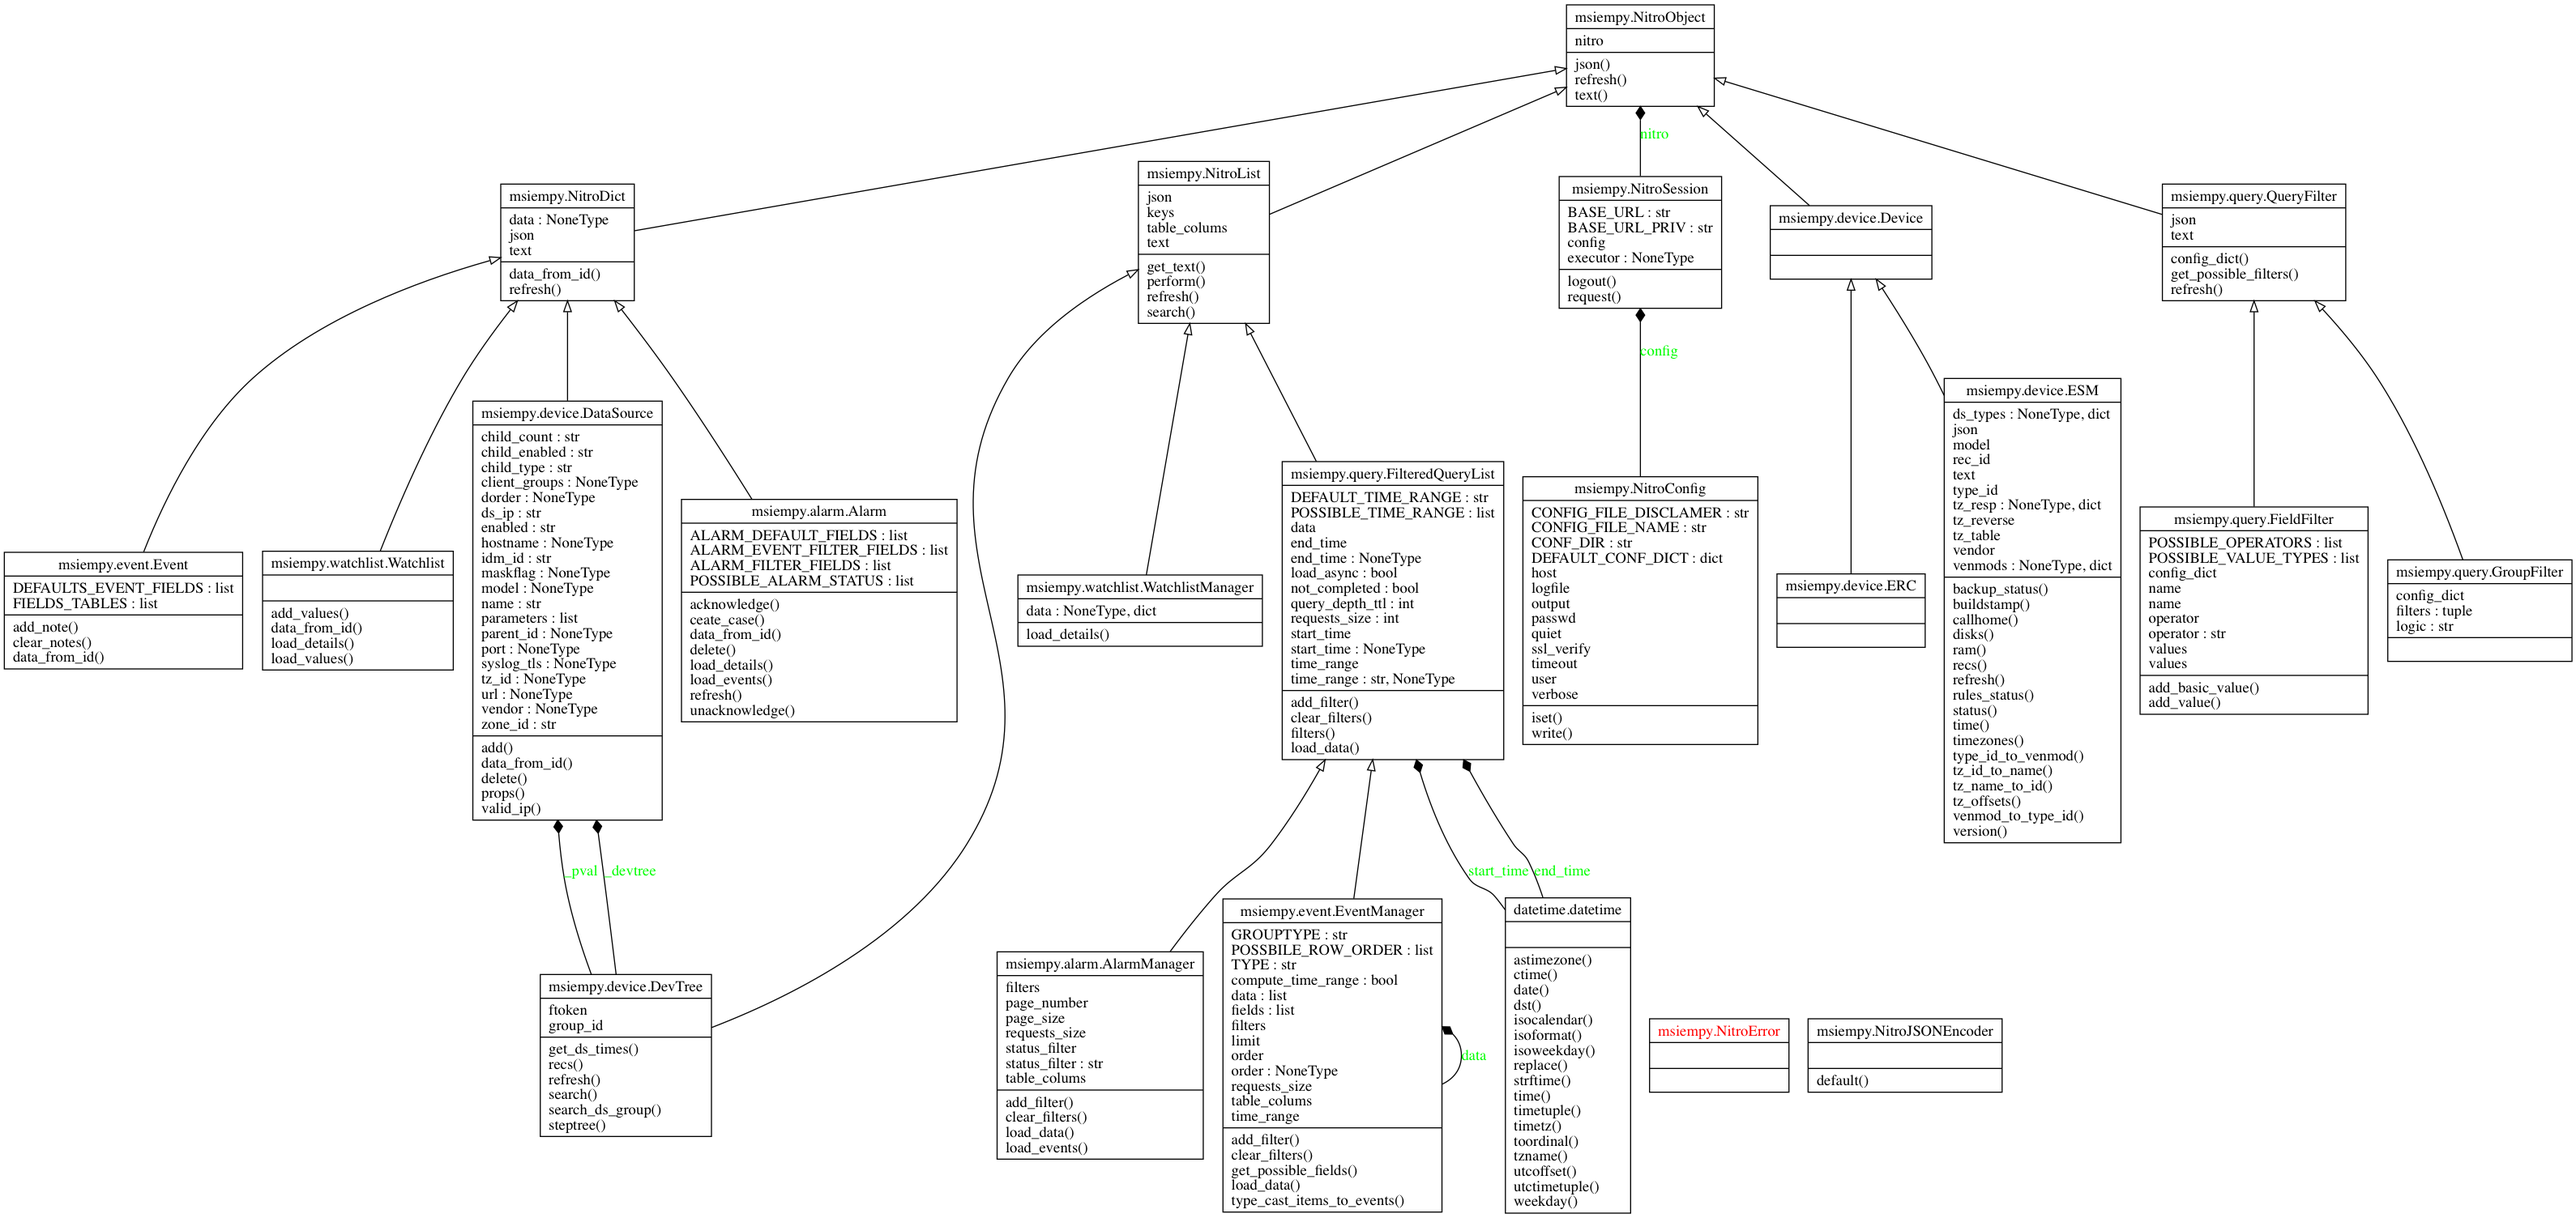
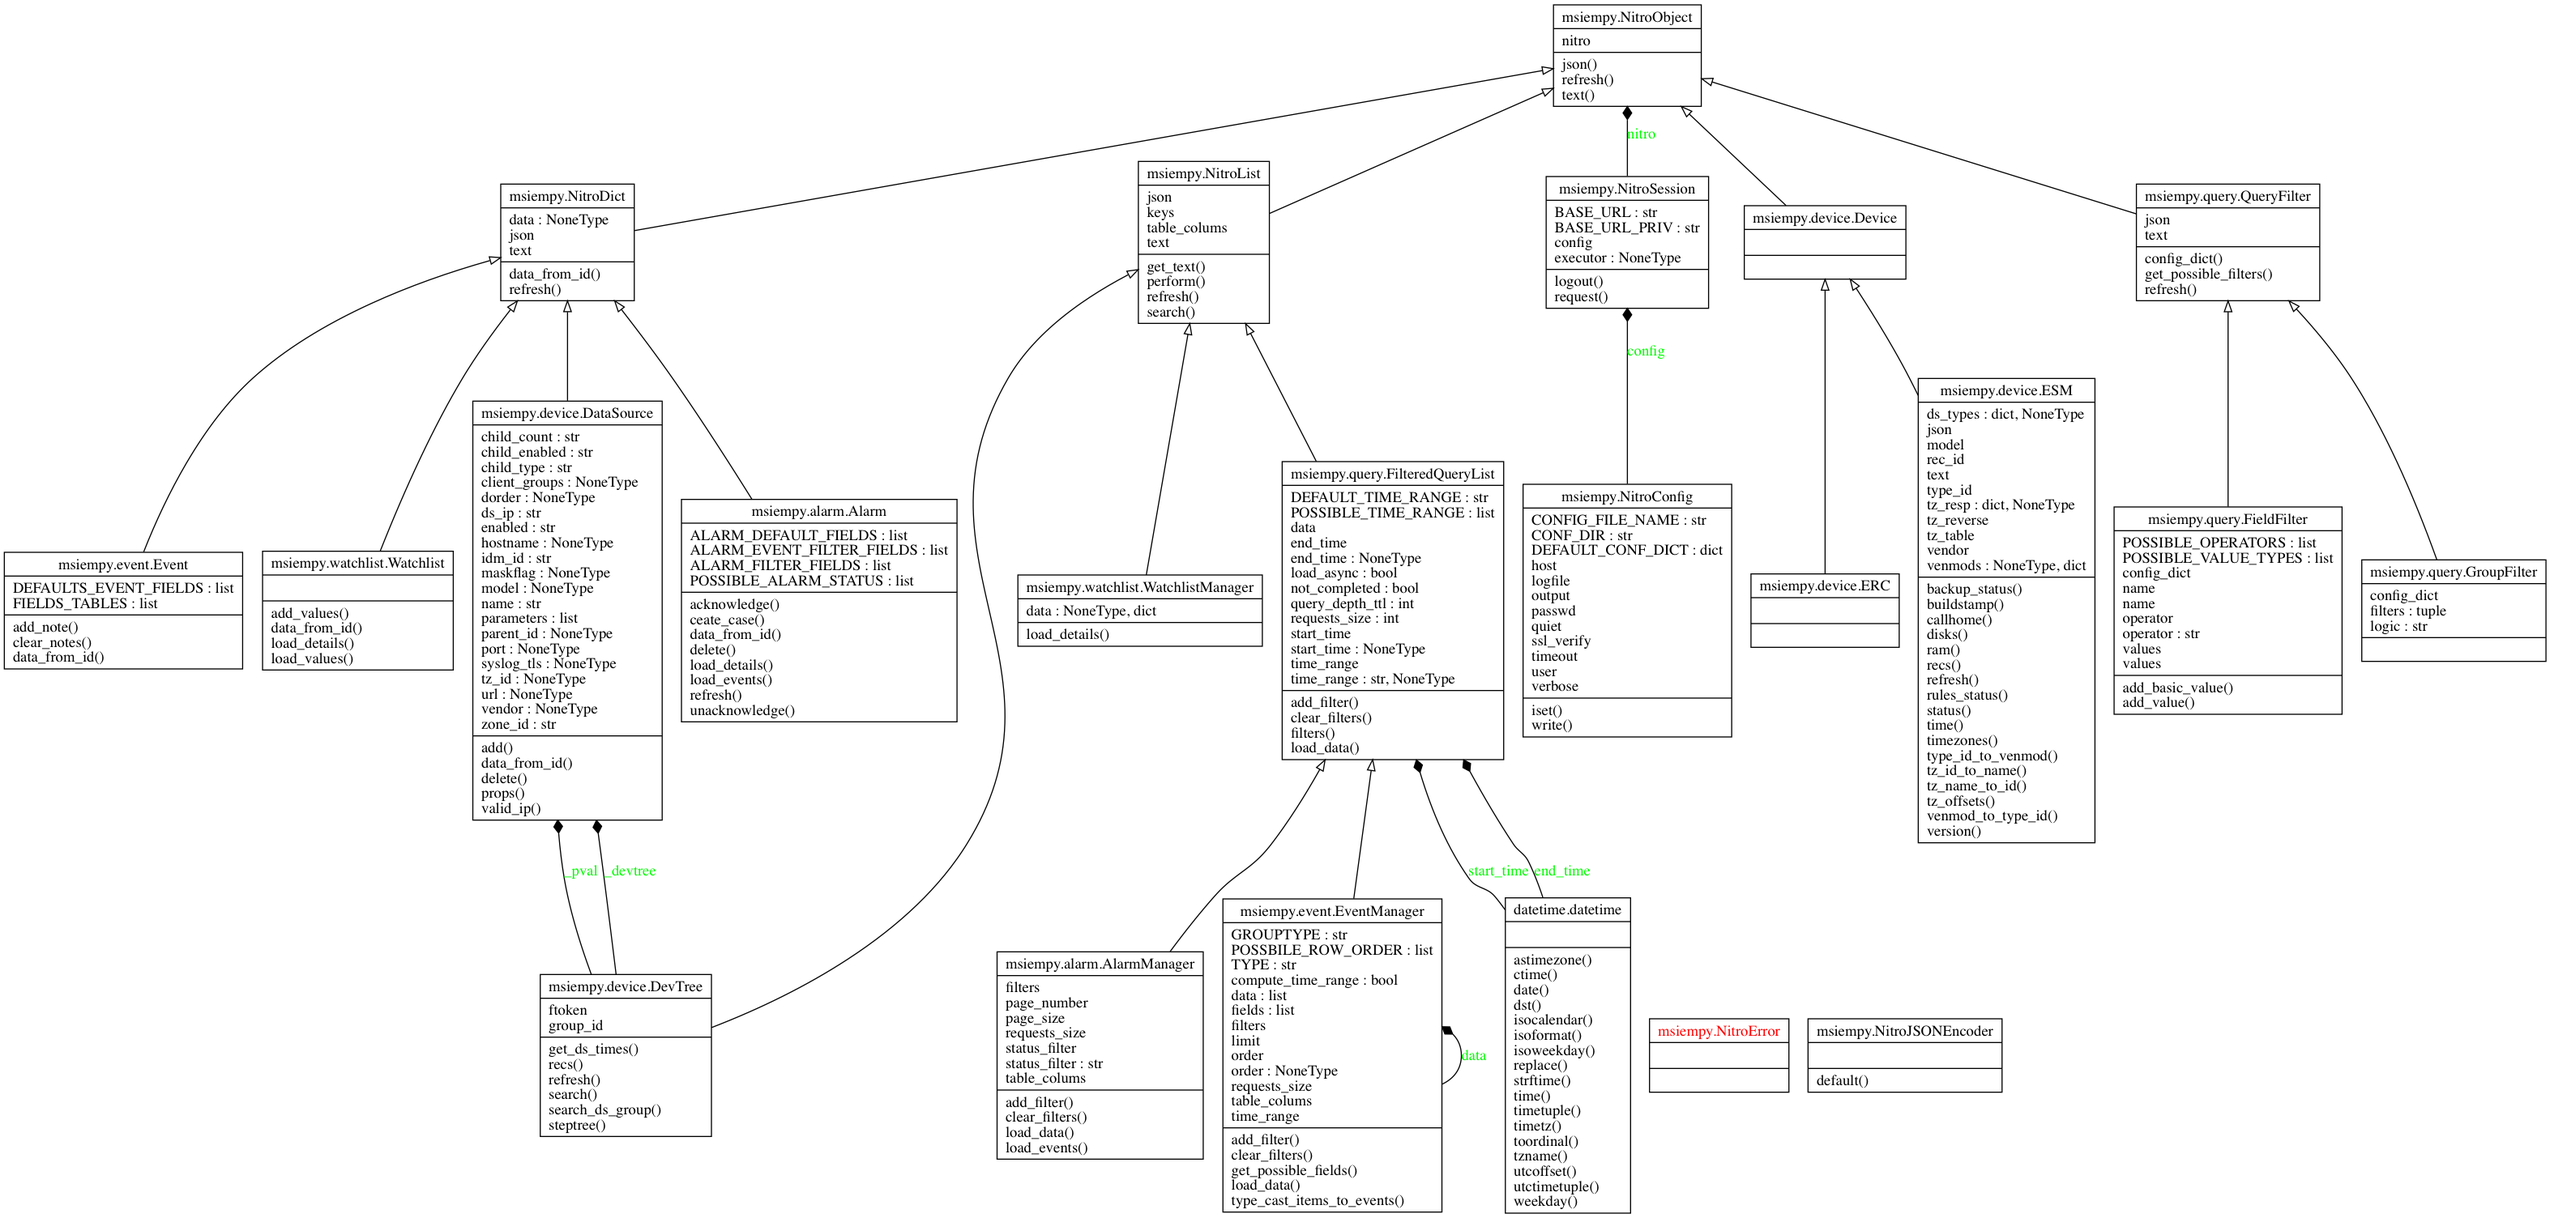
Generate docs Lun  5 aoû 2019 10:35:28 EDT

diff --git a/docs/msiempy/index.html b/docs/msiempy/index.html
@@ -87,9 +87,12 @@ class NitroError(Exception):
     pass
 
 class NitroConfig(configparser.ConfigParser):
-    &#34;&#34;&#34;Class that handles the configuration. Reads the config file where ever it is and make accessible it&#39;s values throught object properties.
-    If a `.msiem/` directory exists in your current directory, the program will assume the `conf.ini` file is there, if not, it will create it with default values.
-    Secondly, if no `.msiem/` directory exists in the current directory, it will be automatically placed in a appropriate place, see `msiempy.NitroConfig.CONFIG_FILE_DISCLAMER`.
+    &#34;&#34;&#34;Class that handles the configuration. Reads the config file where ever it is and make accessible it&#39;s values throught object properties.  
+    If a `.msiem/` directory exists in your current directory, the program will assume the `conf.ini` file is there, if not, it will create it with default values.  
+    Secondly, if no `.msiem/` directory exists in the current directory, it will be automatically placed in a appropriate place depending of your platform.  
+      * For Windows:  %APPDATA%\\  
+      * For Mac :     $HOME/  
+      * For Linux :   $XDG_CONFIG_HOME/ or : $HOME/
     &#34;&#34;&#34;
 
     CONFIG_FILE_NAME=&#39;.msiem/conf.ini&#39;
@@ -97,21 +100,6 @@ class NitroConfig(configparser.ConfigParser):
 
     CONF_DIR=&#39;.msiem/&#39;
     &#34;&#34;&#34;`.msiem/`&#34;&#34;&#34;
-
-    CONFIG_FILE_DISCLAMER=&#34;&#34;&#34;
-        The configuration file should be located securely in your path since it 
-        has credentials.
-        * For Windows:  %APPDATA%\\
-        * For Mac :     $HOME/
-        * For Linux :   $XDG_CONFIG_HOME/ or :   $HOME/
-    &#34;&#34;&#34;
-    &#34;&#34;&#34;
-        The configuration file should be located securely in your path since it 
-        has credentials.
-        * For Windows:  %APPDATA%\\
-        * For Mac :     $HOME/
-        * For Linux :   $XDG_CONFIG_HOME/ or :   $HOME/
-    &#34;&#34;&#34;
 
     DEFAULT_CONF_DICT={
         &#39;esm&#39;:{&#39;host&#39;:&#39;&#39;, 
@@ -145,14 +133,16 @@ class NitroConfig(configparser.ConfigParser):
     def __str__(self):
         &#34;&#34;&#34;Custom str() method that lists all config fields.
         &#34;&#34;&#34;
-        return(self.CONFIG_FILE_DISCLAMER+&#39;\nConfiguration file : &#39;+
-            self._path+&#39;\n&#39;+str({section: dict(self[section]) for section in self.sections()}))
+        return(&#39;Configuration file : &#39;+ self._path+&#39;\n&#39;+str({section: dict(self[section]) for section in self.sections()}))
 
     def __init__(self, path=None, config=None, *arg, **kwarg):
         &#34;&#34;&#34;
-        Arguments
-        - path: Config file speciale path, if path is left None, will automatically look for it.
-        - config: Manual config dict. ex: {&#39;general&#39;:{&#39;verbose&#39;:True}}
+
+            Parameters
+
+            path: Config file speciale path, if path is left None, will automatically look for it.
+            config: Manual config dict. ex: {&#39;general&#39;:{&#39;verbose&#39;:True}}
+            *args, **kwargs : Passed to configparser.ConfigParser __init__()
         &#34;&#34;&#34;
 
         super().__init__(*arg, **kwarg)
@@ -1073,18 +1063,28 @@ are stored as …</p></section>
 <span>(</span><span>path=None, config=None, *arg, **kwarg)</span>
 </code></dt>
 <dd>
-<section class="desc"><p>Class that handles the configuration. Reads the config file where ever it is and make accessible it's values throught object properties.
-If a <code>.msiem/</code> directory exists in your current directory, the program will assume the <code>conf.ini</code> file is there, if not, it will create it with default values.
-Secondly, if no <code>.msiem/</code> directory exists in the current directory, it will be automatically placed in a appropriate place, see <a title="msiempy.NitroConfig.CONFIG_FILE_DISCLAMER" href="#msiempy.NitroConfig.CONFIG_FILE_DISCLAMER"><code>NitroConfig.CONFIG_FILE_DISCLAMER</code></a>.</p>
-<p>Arguments
-- path: Config file speciale path, if path is left None, will automatically look for it.
-- config: Manual config dict. ex: {'general':{'verbose':True}}</p></section>
+<section class="desc"><p>Class that handles the configuration. Reads the config file where ever it is and make accessible it's values throught object properties.<br>
+If a <code>.msiem/</code> directory exists in your current directory, the program will assume the <code>conf.ini</code> file is there, if not, it will create it with default values.<br>
+Secondly, if no <code>.msiem/</code> directory exists in the current directory, it will be automatically placed in a appropriate place depending of your platform.<br>
+* For Windows:
+%APPDATA%\<br>
+* For Mac :
+$HOME/<br>
+* For Linux :
+$XDG_CONFIG_HOME/ or : $HOME/</p>
+<p>Parameters</p>
+<p>path: Config file speciale path, if path is left None, will automatically look for it.
+config: Manual config dict. ex: {'general':{'verbose':True}}
+<em>args, </em>*kwargs : Passed to configparser.ConfigParser <strong>init</strong>()</p></section>
 <details class="source">
 <summary>Source code</summary>
 <pre><code class="python">class NitroConfig(configparser.ConfigParser):
-    &#34;&#34;&#34;Class that handles the configuration. Reads the config file where ever it is and make accessible it&#39;s values throught object properties.
-    If a `.msiem/` directory exists in your current directory, the program will assume the `conf.ini` file is there, if not, it will create it with default values.
-    Secondly, if no `.msiem/` directory exists in the current directory, it will be automatically placed in a appropriate place, see `msiempy.NitroConfig.CONFIG_FILE_DISCLAMER`.
+    &#34;&#34;&#34;Class that handles the configuration. Reads the config file where ever it is and make accessible it&#39;s values throught object properties.  
+    If a `.msiem/` directory exists in your current directory, the program will assume the `conf.ini` file is there, if not, it will create it with default values.  
+    Secondly, if no `.msiem/` directory exists in the current directory, it will be automatically placed in a appropriate place depending of your platform.  
+      * For Windows:  %APPDATA%\\  
+      * For Mac :     $HOME/  
+      * For Linux :   $XDG_CONFIG_HOME/ or : $HOME/
     &#34;&#34;&#34;
 
     CONFIG_FILE_NAME=&#39;.msiem/conf.ini&#39;
@@ -1092,21 +1092,6 @@ Secondly, if no <code>.msiem/</code> directory exists in the current directory, 
 
     CONF_DIR=&#39;.msiem/&#39;
     &#34;&#34;&#34;`.msiem/`&#34;&#34;&#34;
-
-    CONFIG_FILE_DISCLAMER=&#34;&#34;&#34;
-        The configuration file should be located securely in your path since it 
-        has credentials.
-        * For Windows:  %APPDATA%\\
-        * For Mac :     $HOME/
-        * For Linux :   $XDG_CONFIG_HOME/ or :   $HOME/
-    &#34;&#34;&#34;
-    &#34;&#34;&#34;
-        The configuration file should be located securely in your path since it 
-        has credentials.
-        * For Windows:  %APPDATA%\\
-        * For Mac :     $HOME/
-        * For Linux :   $XDG_CONFIG_HOME/ or :   $HOME/
-    &#34;&#34;&#34;
 
     DEFAULT_CONF_DICT={
         &#39;esm&#39;:{&#39;host&#39;:&#39;&#39;, 
@@ -1140,14 +1125,16 @@ Secondly, if no <code>.msiem/</code> directory exists in the current directory, 
     def __str__(self):
         &#34;&#34;&#34;Custom str() method that lists all config fields.
         &#34;&#34;&#34;
-        return(self.CONFIG_FILE_DISCLAMER+&#39;\nConfiguration file : &#39;+
-            self._path+&#39;\n&#39;+str({section: dict(self[section]) for section in self.sections()}))
+        return(&#39;Configuration file : &#39;+ self._path+&#39;\n&#39;+str({section: dict(self[section]) for section in self.sections()}))
 
     def __init__(self, path=None, config=None, *arg, **kwarg):
         &#34;&#34;&#34;
-        Arguments
-        - path: Config file speciale path, if path is left None, will automatically look for it.
-        - config: Manual config dict. ex: {&#39;general&#39;:{&#39;verbose&#39;:True}}
+
+            Parameters
+
+            path: Config file speciale path, if path is left None, will automatically look for it.
+            config: Manual config dict. ex: {&#39;general&#39;:{&#39;verbose&#39;:True}}
+            *args, **kwargs : Passed to configparser.ConfigParser __init__()
         &#34;&#34;&#34;
 
         super().__init__(*arg, **kwarg)
@@ -1304,18 +1291,6 @@ Secondly, if no <code>.msiem/</code> directory exists in the current directory, 
 </ul>
 <h3>Class variables</h3>
 <dl>
-<dt id="msiempy.NitroConfig.CONFIG_FILE_DISCLAMER"><code class="name">var <span class="ident">CONFIG_FILE_DISCLAMER</span></code></dt>
-<dd>
-<section class="desc"><p>The configuration file should be located securely in your path since it
-has credentials.
-* For Windows:
-%APPDATA%\
-* For Mac :
-$HOME/
-* For Linux :
-$XDG_CONFIG_HOME/ or :
-$HOME/</p></section>
-</dd>
 <dt id="msiempy.NitroConfig.CONFIG_FILE_NAME"><code class="name">var <span class="ident">CONFIG_FILE_NAME</span></code></dt>
 <dd>
 <section class="desc"><p><code>.msiem/conf.ini</code></p></section>
@@ -2937,8 +2912,7 @@ secure :    if true will not log the content of the request.
 <ul>
 <li>
 <h4><code><a title="msiempy.NitroConfig" href="#msiempy.NitroConfig">NitroConfig</a></code></h4>
-<ul class="">
-<li><code><a title="msiempy.NitroConfig.CONFIG_FILE_DISCLAMER" href="#msiempy.NitroConfig.CONFIG_FILE_DISCLAMER">CONFIG_FILE_DISCLAMER</a></code></li>
+<ul class="two-column">
 <li><code><a title="msiempy.NitroConfig.CONFIG_FILE_NAME" href="#msiempy.NitroConfig.CONFIG_FILE_NAME">CONFIG_FILE_NAME</a></code></li>
 <li><code><a title="msiempy.NitroConfig.CONF_DIR" href="#msiempy.NitroConfig.CONF_DIR">CONF_DIR</a></code></li>
 <li><code><a title="msiempy.NitroConfig.DEFAULT_CONF_DICT" href="#msiempy.NitroConfig.DEFAULT_CONF_DICT">DEFAULT_CONF_DICT</a></code></li>
